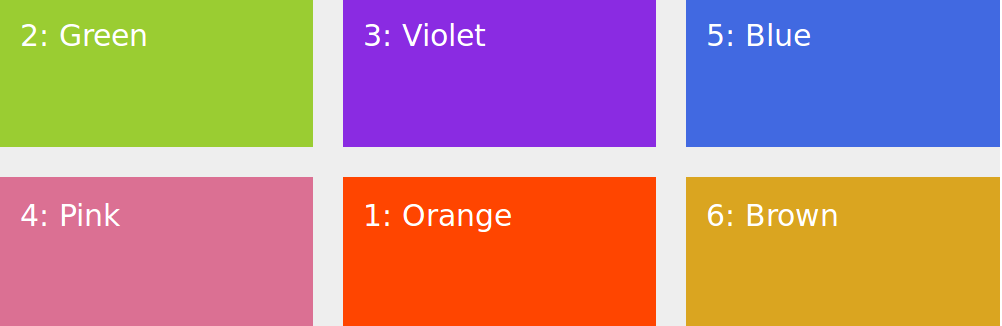
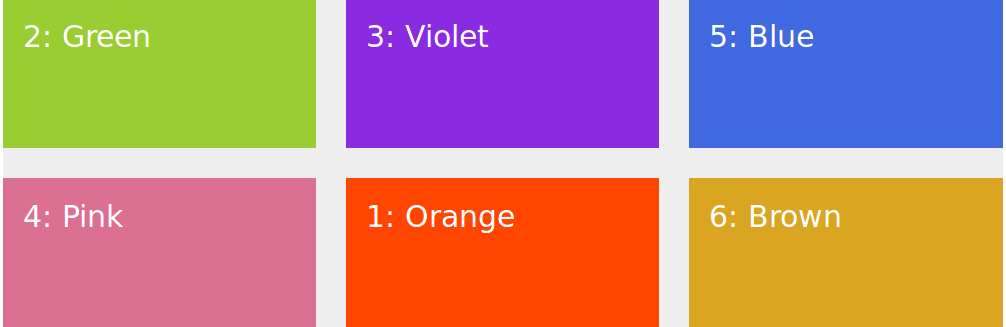
Another notation which have the same effect.

diff --git a/scss/style.scss b/scss/style.scss
@@ -47,6 +47,9 @@
   
   &--5 {
     background-color: royalblue;
+    //grid-row: 1/2;
+    //grid-column: 3/4;
+    grid-area: 1 / 3 / 2 / 4;
   }
   
   &--6 {
